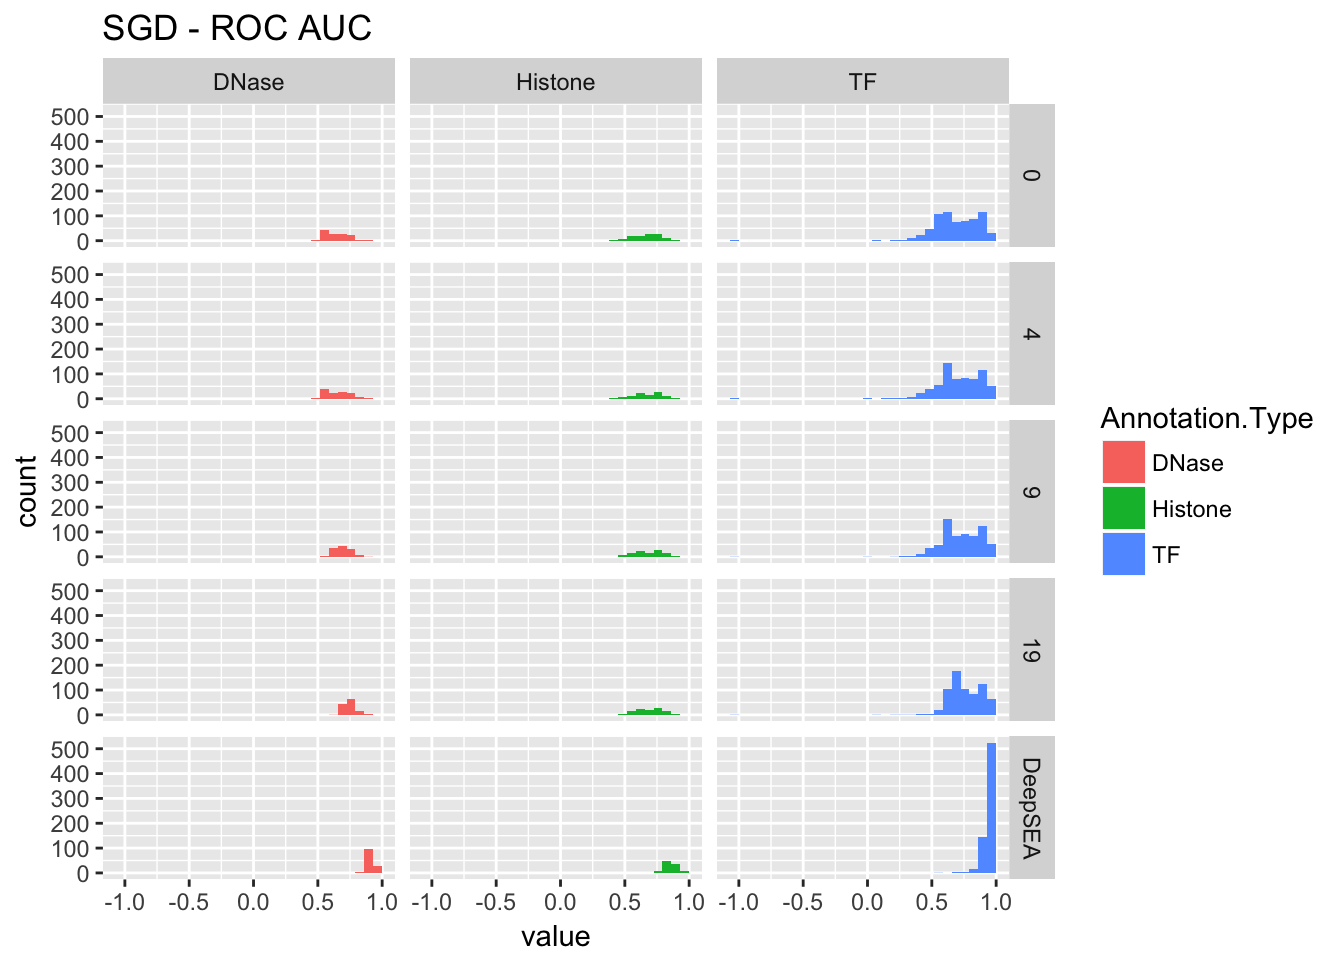
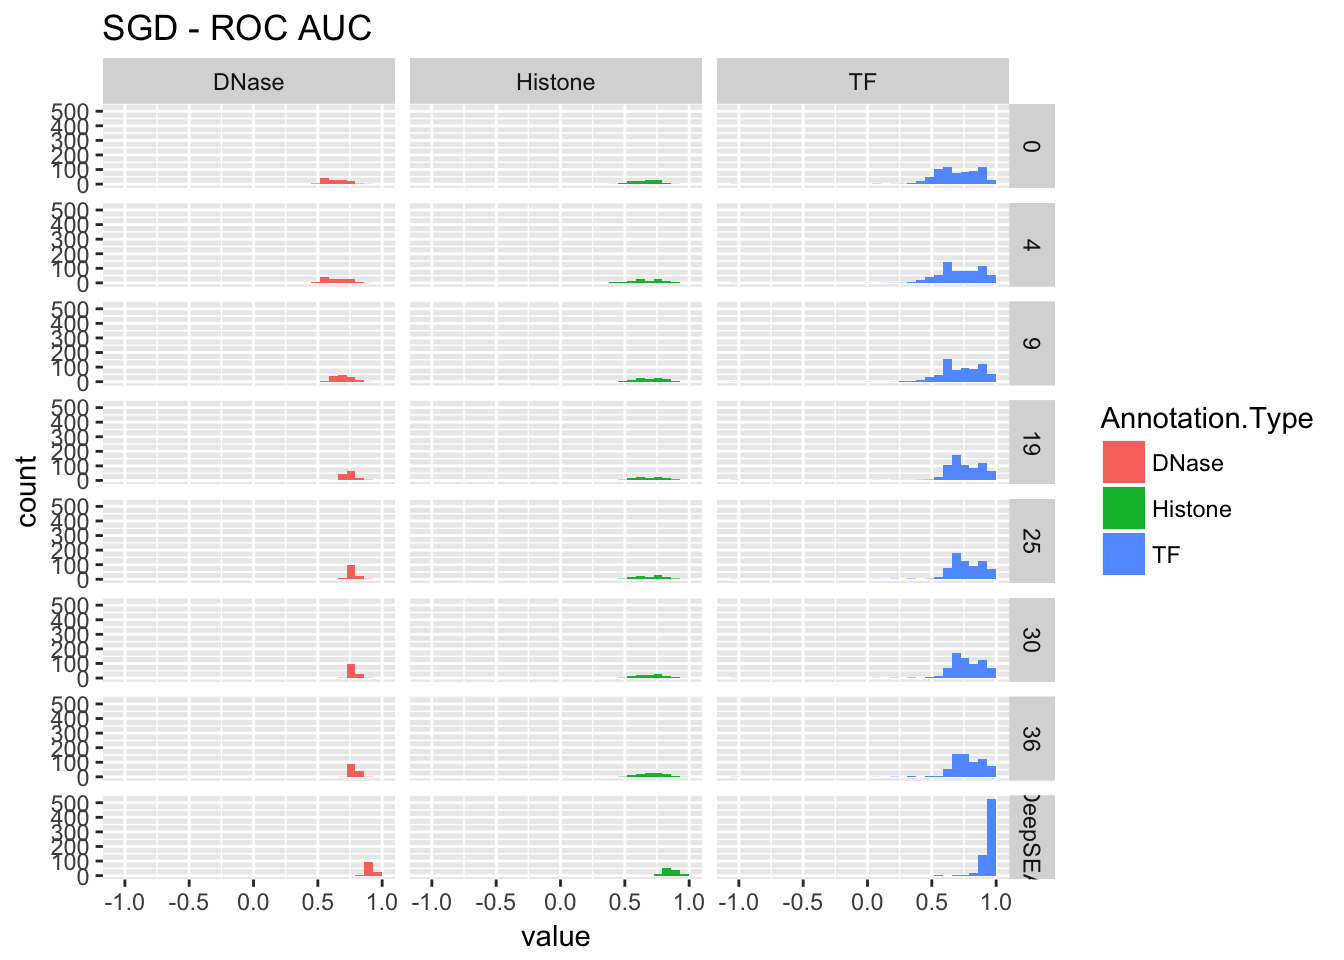
added new results

Changed region(s): [[0.0312, 0.0938, 0.7812, 0.9375], [0.5312, 0.0938, 0.75, 0.125], [0.3125, 0.0938, 0.5, 0.125]]

diff --git a/docs/type2.html b/docs/type2.html
@@ -332,8 +332,10 @@ pre code, pre, code {
 <div id="results" class="section level2">
 <h2><span class="header-section-number">3.1</span> Results</h2>
 <pre class="r"><code>source(&#39;../../../mylib/my_r.R&#39;)
+library(ggplot2)
+library(reshape2)
 rmsprop &lt;- read.table(&#39;../data/type2_040617_00_04_09_17.csv&#39;, sep = &#39;,&#39;, header = T)
-sdg &lt;- read.table(&#39;../data/type2_040717_00_04_09_19.csv&#39;, sep = &#39;,&#39;, header = T)
+sdg &lt;- read.table(&#39;../data/type2_040717_00_04_09_15_19_25_30_36.csv&#39;, sep = &#39;,&#39;, header = T)
 deepsea &lt;- read.table(&#39;../data/aucs.txt&#39;, sep = &#39;\t&#39;, header = T)
 deepsea$DeepSEA.ROC.AUC &lt;- as.numeric(as.character(deepsea$DeepSEA.ROC.AUC))</code></pre>
 <pre><code>## Warning: NAs introduced by coercion</code></pre>
@@ -363,8 +365,8 @@ bestmodel.rms &lt;- select_best(rmsprop.loss, rmsprop)</code></pre>
 <pre><code>##    X data epoch  value variable
 ## 23 0  all     0 0.0699 val_loss</code></pre>
 <pre class="r"><code>bestmodel.sgd &lt;- select_best(sdg.loss, sdg)</code></pre>
-<pre><code>##    X data epoch value variable
-## 15 0  all    19 0.076 val_loss</code></pre>
+<pre><code>##    X data epoch  value variable
+## 27 0  all    36 0.0736 val_loss</code></pre>
 <pre class="r"><code>anno_to_type &lt;- function(anno){
     dnase.ind &lt;- anno == &#39;DNase&#39;
     histone.ind &lt;- grepl(&#39;^H[0-9]&#39;, anno)
@@ -434,7 +436,7 @@ ggplot(temp.melted) + geom_bar(aes(x = variable, y = value, fill = source), posi
 <h3><span class="header-section-number">3.3.3</span> Performance change along training</h3>
 <div id="sgd" class="section level4">
 <h4><span class="header-section-number">3.3.3.1</span> SGD</h4>
-<pre class="r"><code>performance_cross_epoch &lt;- function(scores, deepsea.aucs){
+<pre class="r"><code>performance_cross_epoch &lt;- function(scores, deepsea.aucs, title){
     sdg.aucs &lt;- scores[scores$variable %in% c(&#39;pr_auc&#39;, &#39;roc_auc&#39;, &#39;cross_entropy&#39;),]
     sdg.aucs$data &lt;- as.character(sdg.aucs$data)
     sdg.aucs$Annotation.Type &lt;- anno_to_type(sapply(sdg.aucs$data, function(x){extract_by_col(x, 2)}))
@@ -443,11 +445,11 @@ ggplot(temp.melted) + geom_bar(aes(x = variable, y = value, fill = source), posi
     deepsea.aucs.plot$epoch &lt;- &#39;DeepSEA&#39;
     aucs.plot &lt;- rbind(sdg.aucs.plot, deepsea.aucs.plot)
     aucs.plot$epoch &lt;- factor(aucs.plot$epoch, levels = c(unique(sdg.aucs.plot$epoch), unique(deepsea.aucs.plot$epoch)))
-    p1 &lt;- ggplot(aucs.plot[aucs.plot$variable == &#39;roc_auc&#39;,]) + geom_histogram(aes(x = value, fill = Annotation.Type)) + facet_grid(epoch~Annotation.Type) + ggtitle(&#39;SGD - ROC AUC&#39;)
-    p2 &lt;- ggplot(aucs.plot[aucs.plot$variable == &#39;pr_auc&#39;,]) + geom_histogram(aes(x = value, fill = Annotation.Type)) + facet_grid(epoch~Annotation.Type) + ggtitle(&#39;SGD - PR AUC&#39;)
+    p1 &lt;- ggplot(aucs.plot[aucs.plot$variable == &#39;roc_auc&#39;,]) + geom_histogram(aes(x = value, fill = Annotation.Type)) + facet_grid(epoch~Annotation.Type) + ggtitle(paste(title, &#39;- ROC AUC&#39;))
+    p2 &lt;- ggplot(aucs.plot[aucs.plot$variable == &#39;pr_auc&#39;,]) + geom_histogram(aes(x = value, fill = Annotation.Type)) + facet_grid(epoch~Annotation.Type) + ggtitle(paste(title, &#39;- ROC AUC&#39;))
     return(list(roc=p1, pr=p2, data=aucs.plot))
 }
-re &lt;- performance_cross_epoch(sdg, deepsea.aucs)
+re &lt;- performance_cross_epoch(sdg, deepsea.aucs, &#39;SGD&#39;)
 re$roc</code></pre>
 <pre><code>## `stat_bin()` using `bins = 30`. Pick better value with `binwidth`.</code></pre>
 <pre><code>## Warning: Removed 1 rows containing non-finite values (stat_bin).</code></pre>
@@ -456,7 +458,7 @@ re$roc</code></pre>
 <pre><code>## `stat_bin()` using `bins = 30`. Pick better value with `binwidth`.</code></pre>
 <pre><code>## Warning: Removed 1 rows containing non-finite values (stat_bin).</code></pre>
 <p><img src="type2_files/figure-html/unnamed-chunk-7-2.png" width="672" /></p>
-<pre class="r"><code>re &lt;- performance_cross_epoch(rmsprop, deepsea.aucs)
+<pre class="r"><code>re &lt;- performance_cross_epoch(rmsprop, deepsea.aucs, &#39;RMSprop&#39;)
 re$roc</code></pre>
 <pre><code>## `stat_bin()` using `bins = 30`. Pick better value with `binwidth`.</code></pre>
 <pre><code>## Warning: Removed 1 rows containing non-finite values (stat_bin).</code></pre>
